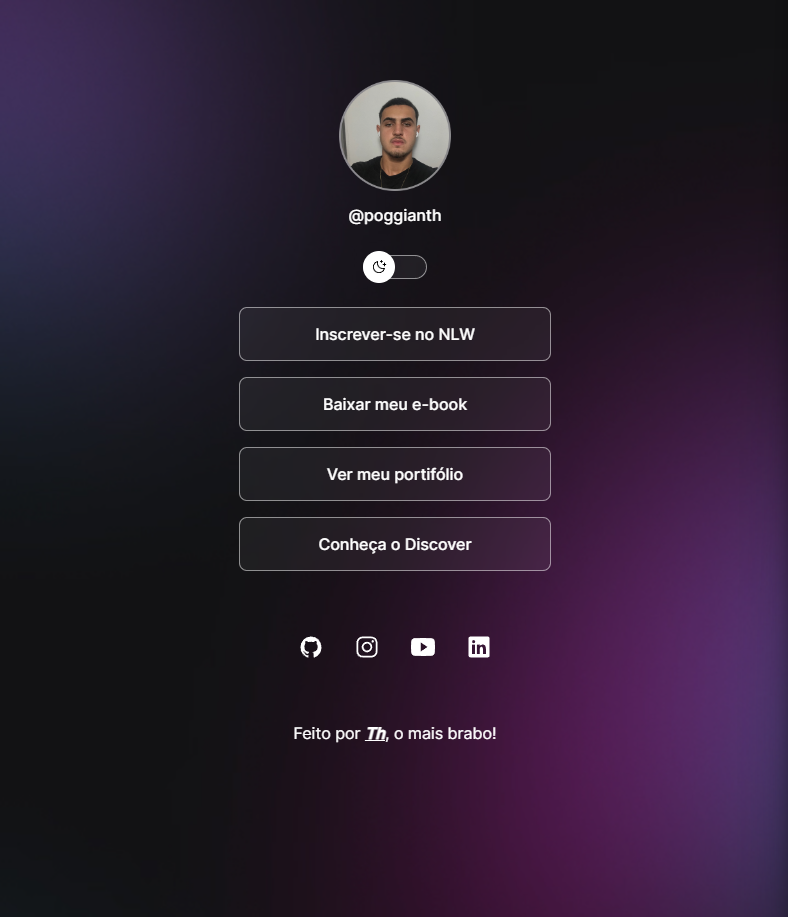
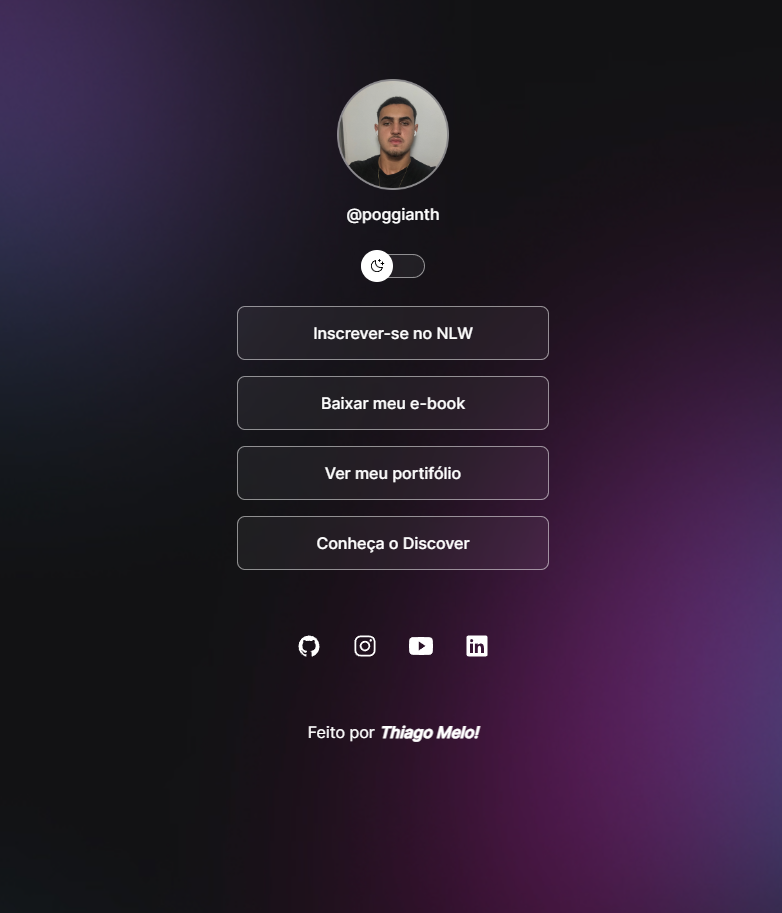
alter index.html

diff --git a/index.html b/index.html
@@ -50,7 +50,7 @@
         </div>
 
         <footer>
-            Feito por <u><strong><i>Th</i></strong></u>, o mais brabo!
+            Feito por <strong><i>Thiago Melo!</i></strong>
         </footer>
     </div>
     
